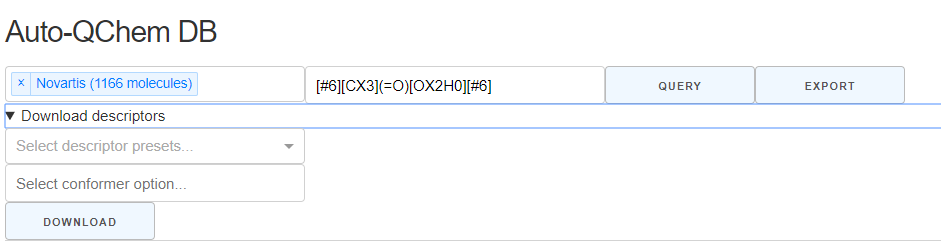
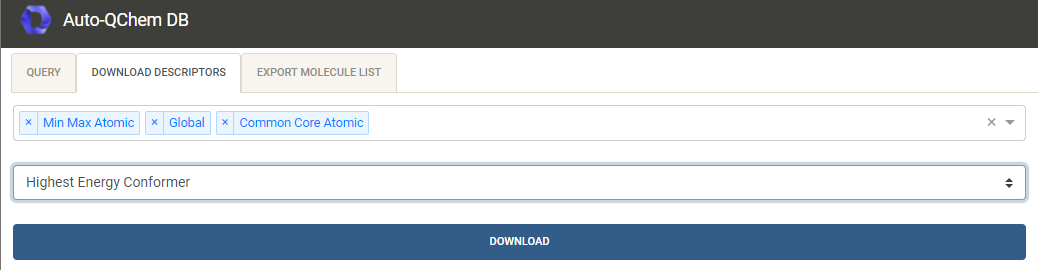
updating Markdown documentation and tutorial notebook

diff --git a/DB.md b/DB.md
@@ -1,7 +1,7 @@
 # Auto-QChem Database User Guide
 
-Auto-QChem stores molecular descriptors in a MongoDB type database. A small web-based user-interface has been
- created to facilitate extractions of descriptors from the database into ```.xlsx``` files for further analysis.
+Auto-QChem stores molecular descriptors in a MongoDB type database. A small web-based user-interface has been created to
+facilitate extractions of descriptors from the database into ```.xlsx``` files for further analysis.
 
 ### 1. Query available molecules
 
@@ -9,59 +9,43 @@ Navigate to the [autoqchem.org](https://autoqchem.org)
 
 ![landing page](images/landing_page.png)
 
-#### 1.1 Query Form
+#### 1.1 Query TAB
 
-##### a) Fields
-Query form has 2 fields, both are optional:
-* __Select tags (multiple choice)__ - each molecule in the DB has an associated tag (or a list of tags), they
-are used to mark specific collections of molecules. If you select multiple tags, molecules 
-for all tags will be displayed. If left blank
-all molecules in the DB will be queried
-* __SMARTS substructure__ - queries the molecules for a substructre using the SMARTS query (SMILES strings
-are a subset of SMARTS), quick reference to the SMARTS query language can be looked up 
-here [https://www.daylight.com/dayhtml_tutorials/languages/smarts/index.html](https://www.daylight.com/dayhtml_tutorials/languages/smarts/index.html) 
+##### Fields
 
-##### b) Buttons
-There are two buttons ```Query``` and ```Export```.
- * __Query__ - queries the DB and displays the table of queried molecules
- * __Export__ - downloads the displayed table as an ```.xlsx``` file, shall be used after hitting ```Query``` 
+Query form has 6 fields, first 4 are required, last 2 are optional:
 
- 
- Result of an example query on a single tag with 1166 molecules, and with SMARTS query for anhydrides:
- ![query result](images/query_result.png)
- 
- 
- #### 1.2 Descriptors Lookup
- 
- For each entry in the table a link to a descriptors lookup called is available in the rightmost 
- column. It will display the the QChem descriptors for the given molecule. If the molecule contains multiple
- conformations, the "Boltzmann" average of all descriptors is shown.
- 
- ![descriptors lookup](images/descriptors_lookup.png)
- 
- ### 2. Descriptors extraction
- 
- Once molecules have been queried, their descriptors can be extracted into an ```.xlsx``` file by toggling the
- ```Download descriptors``` bar and filling the form.
- 
- ![download form](images/download_form.png)
- 
- #### 2.1 Download Form
+* __Dataset tag__ - select dataset filter, use 'ALL' for a whole DB query. Each molecule in the DB has an associated
+  datasets tag
+  (or a list of tags), they are used to mark specific collections of molecules dedicated to specific analyses
+* __Solvent__ - solvent filter, use 'ALL' to ignore filter
+* __Functional__ - functional filter, use 'ALL' to ignore filter
+* __Basis Set__ - basis set filter, use 'ALL' to ignore filter
+* __SMARTS substructure__ - filters the molecules for substructre using the SMARTS query. A quick reference to the
+  SMARTS query language can be looked up
+  here [https://www.daylight.com/dayhtml_tutorials/languages/smarts/index.html](https://www.daylight.com/dayhtml_tutorials/languages/smarts/index.html)
+* __SMILES__ - smiles filter. This can be used for searches for a specific molecule. Canonicalization is not required.
 
-##### a) Fields
-All fields are required
+Upon successful query additional 2 tabs will appear, "Download Descriptors" and "Export Molecule List"
+
+#### 1.2 Download Descriptor TAB
+
+![download_form](images/download_form.png)
+Download form has 2 fields, both are required:
 
 * __Descriptor Presets (multiple choice)__ - the following presets are available, choose as many as needed:
     * __Global__ - molecule level descriptors, e.g. homo energy, dipole moment, molecular weight, etc.
-    * __Min Max Atomic__ - atomic level descriptors minimum and maximum over the atoms within the molecule, e.g. 
-    buried volume, Mulliken charge, NMR shift, etc.
-    * __Substructure Core__ - atomic level descriptors for the common core of atoms within the dataset, the common
-    core is determined using the [MCS procedure](https://www.rdkit.org/docs/source/rdkit.Chem.MCS.html) from rdkit.
-    If substructure has been used for filtering, the common core will include the substructure and potentially
-    more atoms.
-    * __Substructure Labeled__ - atomic level descriptors for labeled molecules. The labels must be consistent, i.e.
-    each molecule must have exactly the same labels, for example 1,2,3,4, the labelled elements can
-    be different, only the numbering scheme shall be consistent.
+    * __Min Max Atomic__ - atomic level descriptors minimum and maximum over the atoms within the molecule, e.g. buried
+      volume, Mulliken charge, NMR shift, etc.
+    * __Substructure Atomic__  - only relevant if substructure was used for the query. The atoms matching the
+      substructure are extracted in consistent order and their descriptors are obtained
+    * __Common Core__ - atomic level descriptors for the common core of atoms within the dataset, the common core is
+      determined using the [MCS procedure](https://www.rdkit.org/docs/source/rdkit.Chem.MCS.html) from rdkit. If
+      substructure has been used for filtering, the common core will include the substructure and potentially more
+      atoms.
+    * __Labeled Atomic__ - atomic level descriptors for labeled molecules. The labels must be consistent, i.e. each
+      molecule must have exactly the same labels, for example 1,2,3,4, the labelled elements can be different, only the
+      numbering scheme shall be consistent.
     * __Transitions__ - top 10 excited state transitions ordered by their oscillation strength
 * __Conformer option (single choice)__ - choose one of the following options:
     * __Boltzmann__ - Boltzmann average
@@ -69,10 +53,24 @@ All fields are required
     * __Min__ - highest energy conformer (minimum weight conformer)
     * __Mean__ - arithmetic average
     * __Std__ - standard deviation over the conformers
-    * __Any__ - randomily chosen conformer
+    * __Any__ - randomily chosen conformer The result of the query is downloaded into an ```.xlsx``` sheet.
 
-##### b) Buttons
-    
-* __Download__ - download the descriptors to an ```.xlsx``` file. Note: when extracting descriptors for hundreds of
- molecules this operation can take up to few minutes, depending on the server load.
+#### 1.3 Export Molecules List TAB
+
+![export_form](images/export_form.png)
+
+Export button downloads the queried list of molecules into an ```.xlsx``` sheet.
+
+Result of an example query on a specific tag containing primary sulfonamides, and with SMARTS query for anhydrides,
+resulting in 75 matches.
+![query result](images/query_result.png)
+
+### 2 Descriptors Lookup
+
+For each entry in the table a link to a descriptors lookup is available in the rightmost column. It displays an
+interactive 3D visualization of the molecule conformers as well as the descriptors of the molecule. If the molecule
+contains multiple conformations, the descriptors are Boltzman averages over the conformer ensemble.
+
+![descriptors lookup](images/descriptors_lookup.png)
+ 
      
